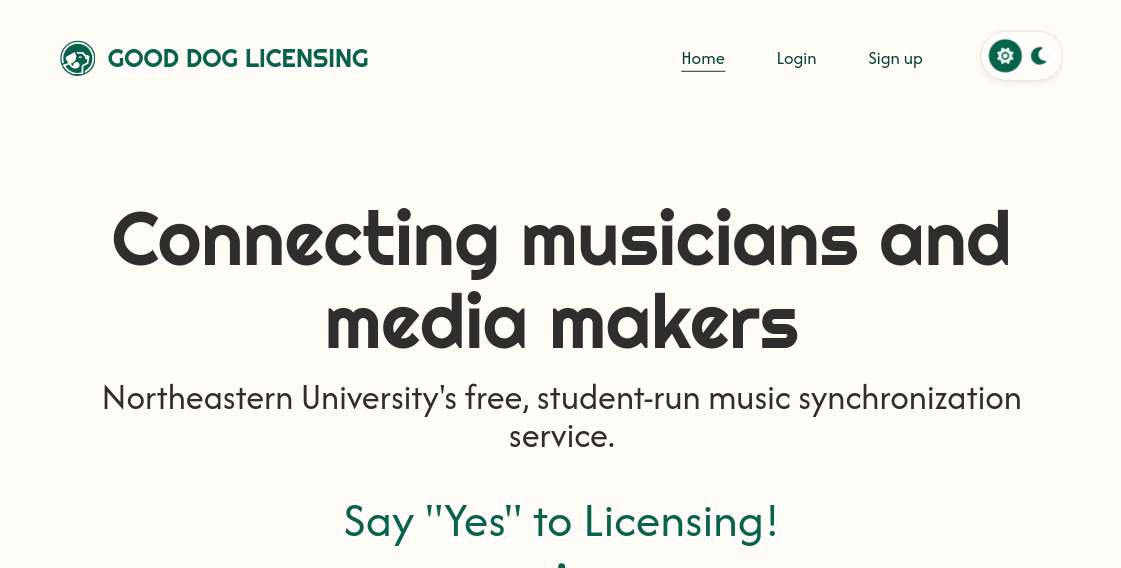
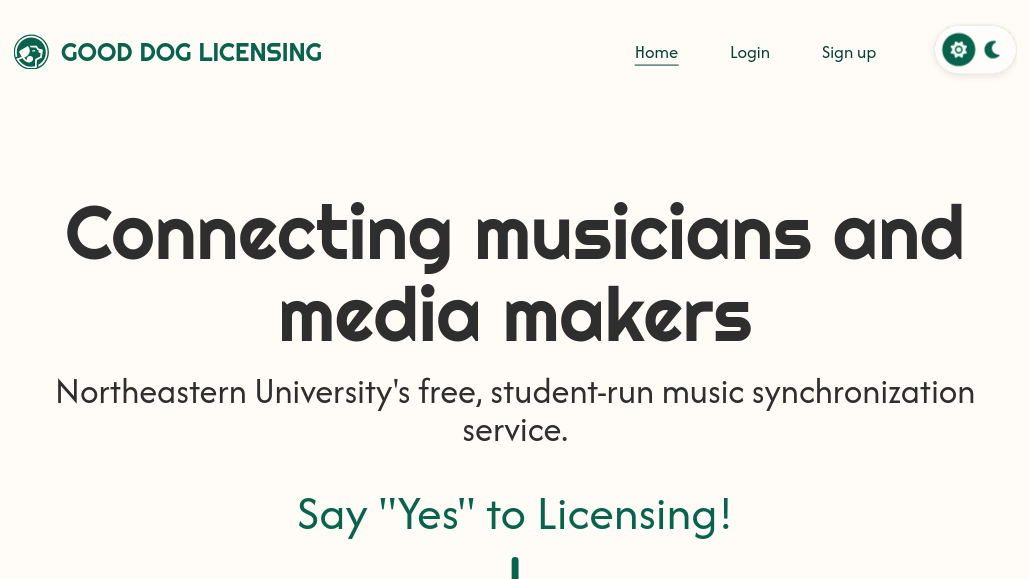
added all current projects

diff --git a/src/lib/projects.ts b/src/lib/projects.ts
@@ -19,11 +19,22 @@ export interface Project {
 const PROJECTS_DIR = path.join(process.cwd(), "src", "content", "projects");
 
 function loadThumbnail(slug: string): StaticImageData | undefined {
-	if (!fs.existsSync(path.join(PROJECTS_DIR, slug, `${slug}.png`))) {
+	const dir = path.join(PROJECTS_DIR, slug);
+	let mod: { default?: StaticImageData } | StaticImageData | undefined;
+	if (fs.existsSync(path.join(dir, `${slug}.png`))) {
+		mod = require(`@/content/projects/${slug}/${slug}.png`);
+	} else if (fs.existsSync(path.join(dir, `${slug}.gif`))) {
+		mod = require(`@/content/projects/${slug}/${slug}.gif`);
+	} else if (fs.existsSync(path.join(dir, `${slug}.jpg`))) {
+		mod = require(`@/content/projects/${slug}/${slug}.jpg`);
+	} else if (fs.existsSync(path.join(dir, `${slug}.jpeg`))) {
+		mod = require(`@/content/projects/${slug}/${slug}.jpeg`);
+	} else if (fs.existsSync(path.join(dir, `${slug}.webp`))) {
+		mod = require(`@/content/projects/${slug}/${slug}.webp`);
+	} else {
 		return undefined;
 	}
-	const mod = require(`@/content/projects/${slug}/${slug}.png`);
-	return (mod.default ?? mod) as StaticImageData;
+	return ((mod as { default?: StaticImageData }).default ?? mod) as StaticImageData;
 }
 
 function readProject(slug: string): { project: Project; body: string } {

diff --git a/src/components/projects/ProjectListCard.tsx b/src/components/projects/ProjectListCard.tsx
@@ -5,6 +5,7 @@ import type { Project } from "@/lib/projects";
 const tagColor: Record<string, string> = {
 	rust: "text-tag-rust",
 	typescript: "text-tag-ts",
+	wasm: "text-tag-wasm",
 	infra: "text-cyan",
 	proxmox: "text-orange-400",
 	Go: "text-[#00ADD8]"
@@ -16,13 +17,13 @@ export default function ProjectListCard({ project }: { project: Project }) {
 			href={`/projects/${project.slug}`}
 			className="group flex gap-6 border-b border-border-soft py-7 transition-colors duration-200 max-sm:flex-col max-sm:gap-4"
 		>
-			<div className="relative aspect-[4/3] w-56 shrink-0 overflow-hidden bg-surface-raised max-sm:aspect-[16/9] max-sm:w-full">
+			<div className="relative aspect-video w-56 shrink-0 overflow-hidden max-sm:aspect-video max-sm:w-full">
 				{project.thumbnail ? (
 					<Image
 						src={project.thumbnail}
 						alt={project.title}
 						fill
-						className="object-contain p-2 transition-transform duration-300 group-hover:scale-[1.02]"
+						className="object-cover transition-transform duration-300 group-hover:scale-[1.02]"
 					/>
 				) : (
 					<div className="flex h-full w-full items-center justify-center font-mono text-sm text-muted-dim">

diff --git a/src/app/projects/[slug]/page.tsx b/src/app/projects/[slug]/page.tsx
@@ -8,6 +8,7 @@ import { getAllProjectSlugs, getProjectBySlug } from "@/lib/projects";
 const tagColor: Record<string, string> = {
 	rust: "text-tag-rust",
 	typescript: "text-tag-ts",
+	wasm: "text-tag-wasm",
 	infra: "text-cyan",
 	proxmox: "text-orange-400",
 	Go: "text-[#00ADD8]"
@@ -79,8 +80,14 @@ export default async function ProjectDetailPage({ params }: { params: Promise<{ 
 				</header>
 
 				{project.thumbnail && (
-					<div className="relative mb-10 aspect-video w-full overflow-hidden border border-border-soft bg-surface-raised">
-						<Image src={project.thumbnail} alt={project.title} fill className="object-contain p-4" />
+					<div className="mb-10 overflow-hidden border border-border-soft">
+						<Image
+							src={project.thumbnail}
+							alt={project.title}
+							width={1600}
+							height={900}
+							className="h-auto w-full"
+						/>
 					</div>
 				)}
 

diff --git a/src/app/globals.css b/src/app/globals.css
@@ -45,6 +45,7 @@
 	/* tag colors */
 	--color-tag-rust: #dea584;
 	--color-tag-ts: #519aba;
+	--color-tag-wasm: #654ff0;
 }
 
 @layer base {

diff --git a/src/content/projects/pngme/pngme.md b/src/content/projects/pngme/pngme.md
@@ -1,0 +1,33 @@
+---
+title: PNGme
+shortDescription: A command line tool to encode, decode, and manage hidden messages within PNG files.
+frontPageDescription:
+tags: [rust, command-line-tool]
+date: 2024-01
+---
+
+PNGme is a command line tool written fully in Rust that encodes, decodes, and manages hidden messages within PNG files.
+
+This was my first project in Rust and I wanted a project that would familiarize me with the language's syntax and allow
+me to create an application in a space that I was unfamiliar with: command line applications. Having never thought about
+the development of CLI tools, and working with a memory-safe language advertised as the future of low-level programming,
+I figured I should begin my break away from full-stack development.
+
+[Robert Heaton](https://robertheaton.com)'s guide is structured in the way I think every lesson or guide should be. The
+[PNGme guide](https://jrdngr.github.io/pngme_book/introduction.html) gives the developer:
+
+1. **Structure**: You are given template functions and modules to write, what's needed for input and output. How you
+   design them and what types you use to represent data is up to the developer.
+2. **Unit Tests**: Test suites to not only ensure that the developer is creating an accurate app, but also to introduce
+   the format and testing norms that exist in Rust.
+3. **Documentation**: Including both documentation needed to understand how PNG files work and how we can exploit that
+   to encode messages, but also documentation where developers can find insight for extensions, testing, and just more
+   cool stuff.
+
+The tool itself works by leveraging the PNG file format's chunk-based structure. PNG files are organized into discrete
+chunks, each with a type code and data payload. PNGme adds custom chunks containing encoded messages that don't affect
+the image's appearance, then retrieves or removes based on a command. The four core operations—encode, decode, remove,
+and print—are all handled through command line arguments.
+
+Beyond Rust fundamentals like ownership and pattern matching, this project taught me how to navigate and integrate
+external crates, parse command line arguments, and work from a technical specification rather than a how-to tutorial.

diff --git a/src/content/projects/searchneu/searchneu.md b/src/content/projects/searchneu/searchneu.md
@@ -1,0 +1,28 @@
+---
+title: SearchNEU
+shortDescription:
+  A student-built course catalog for Northeastern University where students can browse class information and get
+  notified when a seat becomes available
+frontPageDescription:
+tags: [typescript, react, sass, next.js]
+date: 2024-01
+---
+
+SearchNEU is a student-built course catalog for Northeastern University that displays instructor information, meeting
+times, prerequisites, and section availability—all in a clean, searchable interface with notifications for when sections
+open up.
+
+As part of Sandbox, Northeastern's student-led software consultancy, I contributed to SearchNEU during my first semester
+in the organization. I was focused on building the notifications page from scratch, a long requested feature that would
+allow students to finally track, manage, and view the sections and classes they were subscribed to all in one place. I
+also worked on backend database adjustments and endpoints to support this new feature.
+
+This project marked the beginning of my journey as a professional developer. At the time I started working on Search,
+the project was over eight years old. This meant learning to navigate existing architecture, understanding and
+questioning decisions made long before I joined, and writing code that made sense within established patterns. It was
+also my first real experience with the modern developer toolkit—Git workflows, Docker, pull requests, and collaborative
+code review—practices that continue to drive how I work today.
+
+Beyond picking up technical skills, SearchNEU taught me what it means to contribute to something larger than a solo
+project. Learning to write code that others would read, review, and build upon changed how I think about clarity,
+documentation, and maintainability.

diff --git a/src/content/projects/shorelark/shorelark.md b/src/content/projects/shorelark/shorelark.md
@@ -1,0 +1,26 @@
+---
+title: Shorelark
+shortDescription: Shorelark is a simulation of evolution powered by neural networks and genetic algorithms
+frontPageDescription:
+tags: [rust, wasm, neural-network]
+date: 2025-09
+---
+
+Shorelark is a simulation of evolution powered by neural networks and genetic algorithms.
+
+With the growing conversation around AI and machine learning, I wanted to explore these concepts hands-on while also
+diving into Rust—which I had been wanting to explore using on a web/app development project, beyond simple command line
+tools or lower-level projects.
+
+I chose to follow Patryk Wychowaniec's ["Learning to Fly"](https://pwy.io/posts/learning-to-fly-pt1/) series as my guide
+for this project. The series not only walked me through Rust's syntax and core concepts in a practical context, and
+explained the underlying mathematics of the neural network and genetic algorithm implementation in an easily digestible
+fashion. More importantly, it provided a solid baseline that I could understand, build upon, and eventually expand with
+my own ideas.
+
+Each "bird" in the simulation has a simple neural network brain that controls its movement and a simulated field of
+vision to detect food. Birds start with randomized behaviors, and after each generation, those that found the most food
+are selected to reproduce—passing on (and slightly mutating) their neural network weights. Over time, the population
+evolves to become increasingly efficient at locating food, demonstrating natural selection in action.
+
+The project was built in Rust and compiled to WebAssembly, making it accessible directly in the browser.

diff --git a/src/content/projects/good-dog-licensing/good-dog-licensing.md b/src/content/projects/good-dog-licensing/good-dog-licensing.md
@@ -4,7 +4,7 @@ shortDescription:
   Northeastern's free music synchronization platform, connecting student musicians and student media makers together.
 frontPageDescription: Northeastern's free music synchronization platform, connecting musicians and media makers together
 tags: [typescript, react, next.js]
-date: 2025-09
+date: 2026-01
 order: 1
 ---
 
